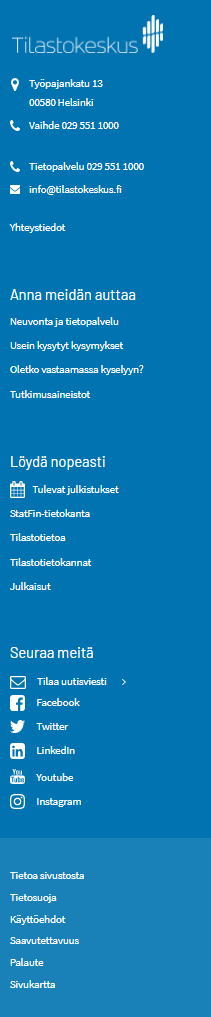
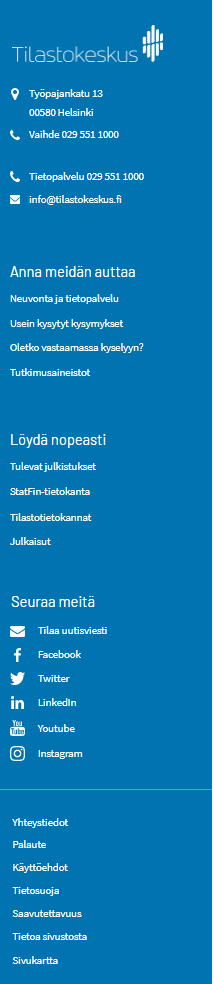
Content update
Alatunniste/footer and Navigaatiopalkki updated.

Changed region(s): [[0.0, 0.0, 1.0, 1.0], [0.0284, 0.0, 0.7678, 0.2439], [0.0284, 0.2744, 0.6825, 0.3963]]

diff --git a/README.md b/README.md
@@ -17,7 +17,6 @@
   - [Navigaatio-palkki mobiili](#navigaatio-palkki-mobiili)
     - [Menu mobiili](#menu-mobiili)
   - [Navigaatio-palkki desktop](#navigaatio-palkki-desktop)
-    - [Menut desktop](#menut-desktop)
   - [Sisältöalue](#sisältöalue)
   - [Sivuston tausta](#sivuston-tausta)
   - [Tekstipalsta](#tekstipalsta)
@@ -36,7 +35,6 @@
   - [Elementtien menut](#elementtien-menut)
   - [Info-laatikko](#info-laatikko)
     - [Info-laatikon tyylit](#info-laatikon-tyylit)
-  - [Jakoviiva](#jakoviiva)
   - [Laajennuspaneeli](#laajennuspaneeli)
     - [Yksittäinen laajennuspaneeli](#yksittäinen-laajennuspaneeli)
     - [Laajennuspaneeliryhmä](#laajennuspaneeliryhmä)
@@ -114,6 +112,7 @@
   - [Vierityspalkki](#vierityspalkki)
     - [Pystysuuntainen vierityspalkki](#pystysuuntainen-vierityspalkki)
     - [Vaakasuuntainen vierityspalkki](#vaakasuuntainen-vierityspalkki)
+  - [Viiva](#viiva)
 
 ## Typografia
 Fontteina käytetään Googlen ilmaisia fontteja. Vaikka osa fonttien ko'oista on tässä ilmoitettu pikseleinä, ne tulee toteuttaa suhteellisina arvoina (em tai rem). 
@@ -231,31 +230,45 @@ Kuvaus lisätään ui-designin ja tyylimääritysten valmistuttua.
 	
 ### Navigaatio-palkki desktop
 
-![Navigaatio-palkki](images/navipalkki.png)
+![Navigaatio-palkki, Tilastotieto-osio korostettuna.](images/navipalkki.png)
 
-Navigaatio-palkin taustan leveys on näytön/selainikkunan laidasta laitaan 2500px asti. Siitä isompikokoisilla näytöillä navipalkin oikealle ja vasemmalle puolelle tulee marginaalit. 
+Navigaatiopalkin osiot ovat linkkejä laskeutumissivuille. Linkit erotetaan toisistaan pystyviivalla. 
+
+Se sivuston osio, jossa kulloinkin ollaan, näkyy navigaatiopalkissa korostettuna. Korostuksena käytetään paksua alleviivausta linkin kohdalla. Alleviivaus ulottuu pystyviivasta toiseen pystyviivaan navigaatiopalkin alareunassa. Alleviivaus ei ole ihan kiinni navipalkin alareunassa. Navipalkin alareunasta jää näkyviin 1px-korkuinen sininen osa. Näin valkoinen alleviivaus ei sulaudu sisältöalueen valkoiseen taustaan. 
+
+Samaa alleviivausta käytetään navigaatiopalkin linkeissä hover-tilassa. Jos kaksi vierekkäistä linkkiä ovat alleviivatussa tilassa, niiden väliin jää näkyviin linkkien välissä oleva pystyviiva: 
+
+![Navigaatio-palkki, Tilastotieto- ja Tiedonkeruut-osiot korostettuna.](images/navipalkki_hover.png)
+
+Navipalkin sisältöalue on leveydeltään 1200px eli sama kuin muukin sisältöalue. Navipalkin sisältö pysyy sisältöalueen sisällä, se ei leviä taustan mukana näytön koon kasvaessa. Navipalkin sisältö on samassa linjassa sivun muun sisällön kanssa eli alkaa vasemmassa laidassa samasta kohdasta kuin sivuston muukin sisältö. Navipalkin sisältö haku-linkkiä lukuunottamatta on tasattu vasempaan laitaan eikä siis levity tasaisesti koko navipalkin alueelle. Haku-linkki on erotettu muusta sisällöstä ja tasattu navipalkin oikeaan laitaan. 
+
+![Navigaatio-palkki sisältöaluetta leveämmällä näytöllä.](images/navipalkki_levea.png)
+
+Navigaatio-palkin tausta ulottuu näytön/selainikkunan laidasta laitaan 2500px asti. Siitä isompikokoisilla näytöillä navipalkin oikealle ja vasemmalle puolelle tulee marginaalit. 
 *Poikkeus:* 
-Jos ollaan sivulla, jossa on bannerikuva (aiheen ja tarkennetun aiheen sivuilla): navipalkin tausta on näytön laidasta laitaan kunnes bannerikuvan rajat tulevat vastaan: navipalkki loppuu siinä missä bannerikuvakin. 
+Jos ollaan sivulla, jossa on bannerikuva (eli aiheen ja tarkennetun aiheen sivuilla), navipalkin tausta loppuu siinä missä bannerikuvakin. 
 
-Navipalkin sisältöalue on leveydeltään 1200px eli sama kuin muukin sisältöalue. Navipalkin sisältö pysyy sisältöalueen sisällä, se ei leviä taustan mukana näytön koon kasvaessa. Navipalkin sisältö on samassa linjassa sivun muun sisällön kanssa eli alkaa vasemmassa laidassa samasta kohdasta kuin sivuston muukin sisältö. Navipalkin sisältö on tasattu vasempaan laitaan eikä siis levity tasaisesti koko navipalkin alueelle. 
-
-Se sivuston osio, jossa kulloinkin ollaan, näkyy navigaatiopalkissa korostettuna.
 
 Navipalkin tyylit:
 
-| Max-width | Background-color | Sisältöalueen leveys | Sisällön tasaus |
-| --------- | ---------------- | -------------------- | --------------- |
-| 2500px    | #0073b0          | 1200px               | left            |
+| Max-width | Background-color | Sisältöalueen leveys | Sisällön tasaus                       |
+| --------- | ---------------- | -------------------- | ------------------------------------- |
+| 2500px    | #0073b0          | 1200px               | haku-linkki: right, muut linkit: left |
 
 Navigaatiopalkin linkkien tyylit:
 
-| Tila                    | Background-color | Border left/right | Font           | Font-size | Font color | Padding       | Font variant | Text-decoration |
-| ----------------------- | ---------------- | ----------------- | -------------- | --------- | ---------- | ------------- | ------------ | --------------- |
-| **Tavallinen**          | #0073b0          | 1px, #338FC0      | Barlow, medium | 1.1rem    | #ffffff    | 1.2rem 1.5rem | normal       | none            |
-| **Korostettu/sijainti** | #ffffff          | 1px, #0073b0      | Barlow, medium | 1.1rem    | #0073b0    | 1.2rem 1.5rem | normal       | none            |
+| Background-color | Border left/right | Font           | Font-size | Font color | Padding       | Font variant | Text-decoration |
+| ---------------- | ----------------- | -------------- | --------- | ---------- | ------------- | ------------ | --------------- |
+| #0073b0          | 1px, #338FC0      | Barlow, medium | 1.1rem    | #ffffff    | 1.2rem 1.5rem | normal       | none            |
 
-#### Menut desktop
-Navigaatiopalkista avautuvien menujen sisältö on tasattu vasempaan laitaan. Kuvat ja kuvaus lisätään ui-designin valmistuttua. 
+Alleviivauksen tyylit (sijainti ja navipalkin linkin hover-tila): 
+
+| Height | Color   |
+| ------ | ------- |
+| 8px    | #ffffff |
+
+**Huom!** Alleviivaus ei tule ihan kiinni navipalkin alareunaan. Navipalkkia näkyvissä valkoisen alleviivauksen alla 1px. 
+
 
 ### Sisältöalue
 
@@ -291,9 +304,9 @@ Saavutettavuuden parantamiseksi sivuston tausta ei ole puhtaan valkoinen vaan 2%
 
 ### Alatunniste
 
-Alatunniste koostuu kahdesta osasta. Osat eroavat toisistaan asettelultaan ja taustaväriltään. 
+Alatunniste koostuu kahdesta osasta. Osat eroavat toisistaan asettelultaan ja ne erotetaan toisistaan viivalla. 
 
-Alatunnisteen molempien osien tausta käyttäytyy isoilla näytöillä kuten yläpalkin ja navigaatiopalkin tausta. Tausta ulottuu näytön laidasta laitaan pienillä näytöillä. Isoilla näytöillä alatunnisteen tausta on 2500px leveyteen asti koko näytön levyinen, sen jälkeen vasemmalla ja oikealla puolella alkavat marginaalit. 
+Alatunnisteen tausta ulottuu näytön laidasta laitaan pienillä näytöillä. Isoilla näytöillä alatunnisteen tausta on 2500px leveyteen asti koko näytön levyinen, sen jälkeen vasemmalla ja oikealla puolella alkavat marginaalit. 
 
 Alatunnisteen sisältöalue on leveydeltään 1200px eli sama kuin muukin sisältöalue. Alatunnisteen sisältö pysyy sisältöalueen sisällä, se ei leviä taustan mukana näytön koon kasvaessa. Alatunnisteen ylemmän osan sisältö on samassa linjassa sivun muun sisällön kanssa eli alkaa vasemmassa laidassa samasta kohdasta kuin sivuston muukin sisältö. Alemman osan sisältö on keskitetty. 
 
@@ -314,6 +327,10 @@ Alatunnisteen tyylit:
 | ------ | --------- | -------------------- | ---------------- | ------------ | ------------------ | -------------------------------------- | ------------ | ------------- |
 | Yläosa | 2500px    | 1200px               | #0073b0          | 4            | Tasattu vasemmalle | Otsikot: H3, Linkit: negatiivilinkkejä | #ffffff      | #ffffff       |
 | Alaosa | 2500px    | 1200px               | #0073b0          | 1            | Tasattu keskelle   | Linkit: negatiivilinkkejä              | #ffffff      | #ffffff       |
+
+|       | Max-width | Height | Color   |
+| ----- | --------- | ------ | ------- |
+| Viiva | 1200px    | 1px    | #ffffff |
 
 ## Komponentit
 
@@ -499,22 +516,6 @@ Taustaväriltään info-laatikko on joko vaaleansininen tai valkoinen. Tarkemmat
 | ---------- | ------- | ------------------- | ------------------------------------ |
 | Tausta     |         | #f2f8fb tai #ffffff | mobiili: 100%, desktop: 100% tai 50% |
 | Reunaviiva | #0073b0 |                     | 3px                                  |
-
-### Jakoviiva
-
-Jakoviiva on kapea harmaa vaakaviiva, joka erottaa sisältöjä toisistaan. Jakoviivoja voidaan käyttää myös asioiden ryhmittelyyn asettamalla niitä eri ryhmien väliin, esim. menuissa. 
-
-![Jakoviiva](images/divider.png)
-
-| Height | Color   |
-| ------ | ------- |
-| 1px    | #aaaaaa |
-
-Ensisijaisesti eri osioiden erottamiseen toisistaan tulee käyttää tyhjää tilaa. Niissä tilasteissa, joissa tyhjää tilaa ei voida käyttää tai se ei ole riittävä tapa, käytetään jakoviivoja.  
-
-![Jakoviiva erottamassa toisiinsa julkaisu-elementtejä.](images/divider_example1.png)
-
-Jakoviivoilla voidaan myös erottaa saman kokonaisuuden tai toisiinsa liittyviä elementtejä toisistaan. 
 
 
 ### Laajennuspaneeli 
@@ -716,11 +717,11 @@ Esim. pienellä näytöllä tiedotteen sivulla murupolkuna näkyy linkki tilasto
 
 ![Pienellä näytöllä pitkä murupolku lyhenee vain yhdeksi linkiksi ylemmälle hierarkian tasolle.](images/murupolku_mobiili2.png)
 
-|                                             | Murupolun muoto                                                    |
-| ------------------------------------------- | ------------------------------------------------------------------ |
-| **Desktop**                                 | Linkki ylemmälle tasolle / Sivun nimi    |
-| **Mobiili (max. kaksi kohtaa murupolussa)** | Linkki ylemmälle tasolle / Sivun nimi                               |
-| **Mobiili (yli kaksi kohtaa murupolussa)**   | < Linkki ylemmälle tasolle                                                 |
+|                                             | Murupolun muoto                       |
+| ------------------------------------------- | ------------------------------------- |
+| **Desktop**                                 | Linkki ylemmälle tasolle / Sivun nimi |
+| **Mobiili (max. kaksi kohtaa murupolussa)** | Linkki ylemmälle tasolle / Sivun nimi |
+| **Mobiili (yli kaksi kohtaa murupolussa)**  | < Linkki ylemmälle tasolle            |
 
 
 #### Murupolku isoilla näytöillä
@@ -969,10 +970,10 @@ Pääkohdat-elementissä kerrotaan tiiviisti tilastojulkistuksen tärkeimmät as
 
 ![Pääkohdat kertovat tiiviisti tilastojulkistuksen tärkeimmät asiat.](images/paakohdat.png)
 
-|                                        | Font            | Font-size     | Color   |
-| -------------------------------------- | --------------- | ------------- | ------- |
-| **Pääkohdat-otsikko (H2-fontti)**      | Barlow, regular | 28px          | #000000 |
-| **Pääkohtien lista (Ingressi-fontti)** | Barlow, regular | 17px | #000000 |
+|                                        | Font            | Font-size | Color   |
+| -------------------------------------- | --------------- | --------- | ------- |
+| **Pääkohdat-otsikko (H2-fontti)**      | Barlow, regular | 28px      | #000000 |
+| **Pääkohtien lista (Ingressi-fontti)** | Barlow, regular | 17px      | #000000 |
 
 Tekstissä on riippuva sisennys eli kaikki tekstirivit ovat samassa linjassa pallo-listamerkkien oikealla puolella. Tekstit eivät siis mene pallo-listamerkkien alle ts. pääkohdat-listassa käytetään css-listan normaalia toiminnallisuutta. (Yllä oleva kuva ei vastaa tältä osin visuaalisesti haluttua toteutusta.)
 
@@ -1321,6 +1322,21 @@ Vierityspalkki vihjaa elementissä olevasta vieritys-ominaisuudesta silloin kun 
 | **Vieritettävä palkki** | #0073b0 | 10px          | 10px   | määräytyy elementin mukaan |
 | **Tausta**              | #e6e6e6 |               | 10px   | määräytyy elementin mukaan |
 
+### Viiva
+
+Viiva on kapea harmaa vaakaviiva, joka erottaa sisältöjä toisistaan. Viivoja voidaan käyttää myös asioiden ryhmittelyyn asettamalla niitä eri ryhmien väliin, esim. menuissa. 
+
+![Viiva](images/divider.png)
+
+| Height | Color   |
+| ------ | ------- |
+| 1px    | #aaaaaa |
+
+Ensisijaisesti eri osioiden erottamiseen toisistaan tulee käyttää tyhjää tilaa. Niissä tilasteissa, joissa tyhjää tilaa ei voida käyttää tai se ei ole riittävä tapa, käytetään viivoja.  
+
+![Viiva erottamassa toisiinsa julkaisu-elementtejä.](images/divider_example1.png)
+
+Viivoilla voidaan myös erottaa saman kokonaisuuden tai toisiinsa liittyviä elementtejä toisistaan. 
 
 	
 
